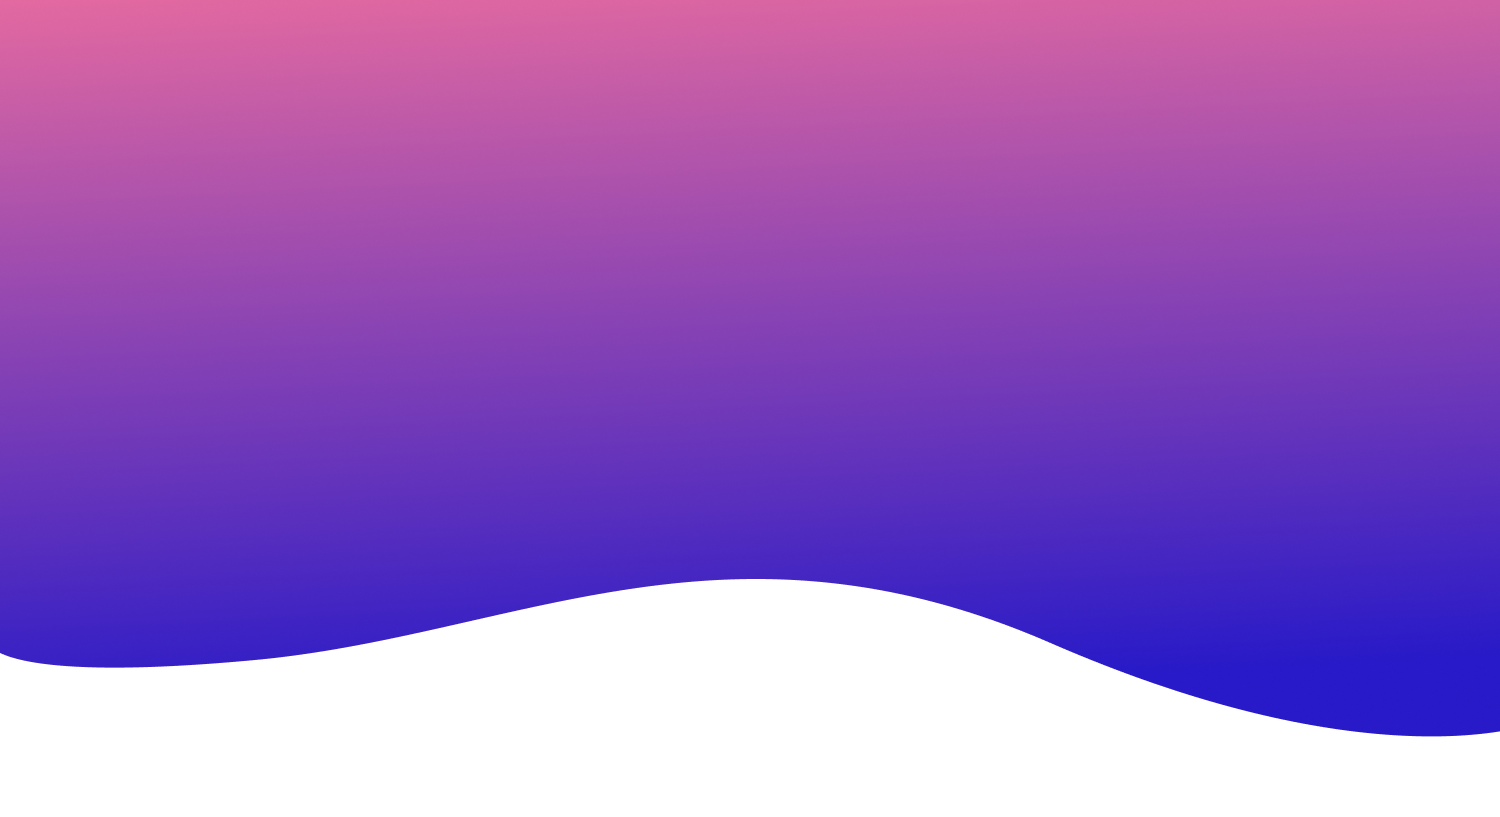
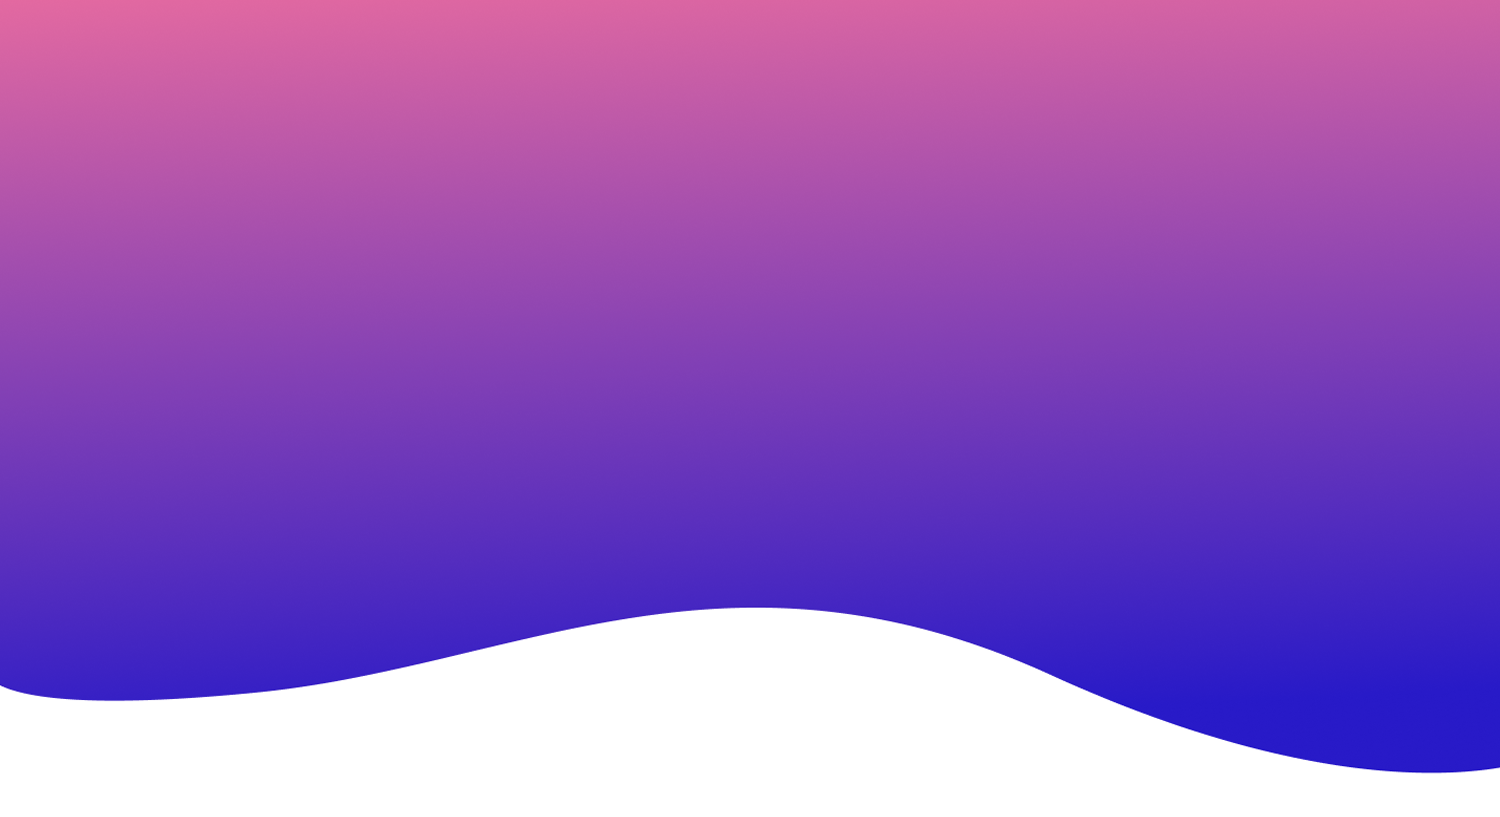
About

Changed region(s): [[0.0, 0.7038, 1.0, 0.9486]]

diff --git a/src/About/About_Style.js b/src/About/About_Style.js
@@ -1,0 +1,69 @@
+import styled from "styled-components";
+
+export const Wrapper = styled.div`
+  display: flex;
+  width: 1920px;
+  height: fit-content;
+  box-sizing: border-box;
+  background: white;
+  padding: 50px 150px;
+`;
+
+export const Left = styled.div`
+  background: white;
+  flex: 1;
+`;
+
+export const Img = styled.img`
+  background: white;
+`;
+
+export const Right = styled.div`
+  background: white;
+  flex: 1;
+  padding: 0px 0px 0px 100px;
+`;
+
+export const Text = styled.div`
+  width: 400px;
+  background: transparent;
+  font-family: Poppins;
+  font-style: normal;
+  font-weight: bold;
+  font-size: 35px;
+  line-height: 65px;
+  color: rgba(253, 116, 155, 1);
+
+  :hover {
+    border-bottom: 3px solid #fd749b;
+  }
+`;
+
+export const Title = styled.div`
+  background: transparent;
+  font-family: Poppins;
+  font-style: normal;
+  font-weight: normal;
+  font-size: 18px;
+  line-height: 40px;
+  color: #333333;
+  padding: 40px 0px;
+`;
+
+export const Button = styled.div`
+  display: flex;
+  justify-content: center;
+  align-items: center;
+  width: 157px;
+  height: 54px;
+  font-family: Poppins;
+  font-style: normal;
+  font-weight: bold;
+  font-size: 18px;
+  line-height: 21px;
+  text-align: center;
+  background: linear-gradient(178.18deg, #fd749b -13.56%, #281ac8 158.3%);
+  border-radius: 100px;
+  color: #ffffff;
+  cursor: pointer;
+`;

diff --git a/src/About/About.jsx b/src/About/About.jsx
@@ -1,0 +1,29 @@
+import React from "react";
+import { Wrapper, Left, Right, Img, Text, Title, Button } from "./About_Style";
+import main2 from "../assets/imgs/main2.png";
+
+const About = () => {
+  return (
+    <Wrapper>
+      <Left>
+        <Img src={main2} />
+      </Left>
+      <Right>
+        <Text>Welcome to CoinBase</Text>
+        <Title>
+          We have the best rates . Simply start your exchange right now. Sign{" "}
+          <br /> up for our Affiliate program and earn commission from each{" "}
+          <br />
+          exchange. The earnings are credited in your account instantly and{" "}
+          <br /> can be withdrawn right away. Also note some exchange directions{" "}
+          <br /> are hidden for unregistered user. To ensure to have access to
+          all <br /> our exchange directions and benefits kindly sign up and
+          verify your <br /> identity.
+        </Title>
+        <Button>DISCOVER</Button>
+      </Right>
+    </Wrapper>
+  );
+};
+
+export default About;

diff --git a/src/Root.jsx b/src/Root.jsx
@@ -2,12 +2,14 @@ import React from "react";
 import { Container } from "./Root_Style";
 import Navbar from "./Navbar/Navbar";
 import Body1 from "./Body1/Body1";
+import About from "./About/About";
 
 const Root = () => {
   return (
     <Container>
       <Navbar />
       <Body1 />
+      <About />
     </Container>
   );
 };

diff --git a/src/Body1/Body1_Style.js b/src/Body1/Body1_Style.js
@@ -4,10 +4,10 @@ import bg from "../assets/imgs/bg.png";
 export const Wrapper = styled.div`
   display: flex;
   width: 1920px;
-  height: 1080px;
+  height: 1040px;
   background-image: url(${bg});
   background-repeat: no-repeat;
-  background-size: contain;
+  background-size: cover;
   box-sizing: border-box;
 `;
 
